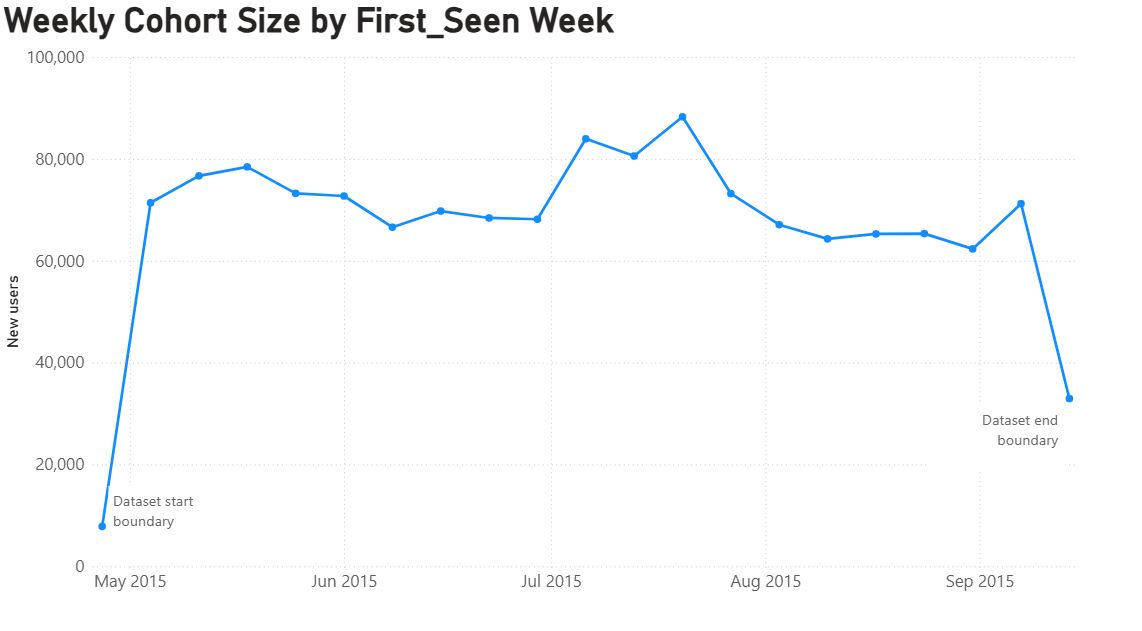
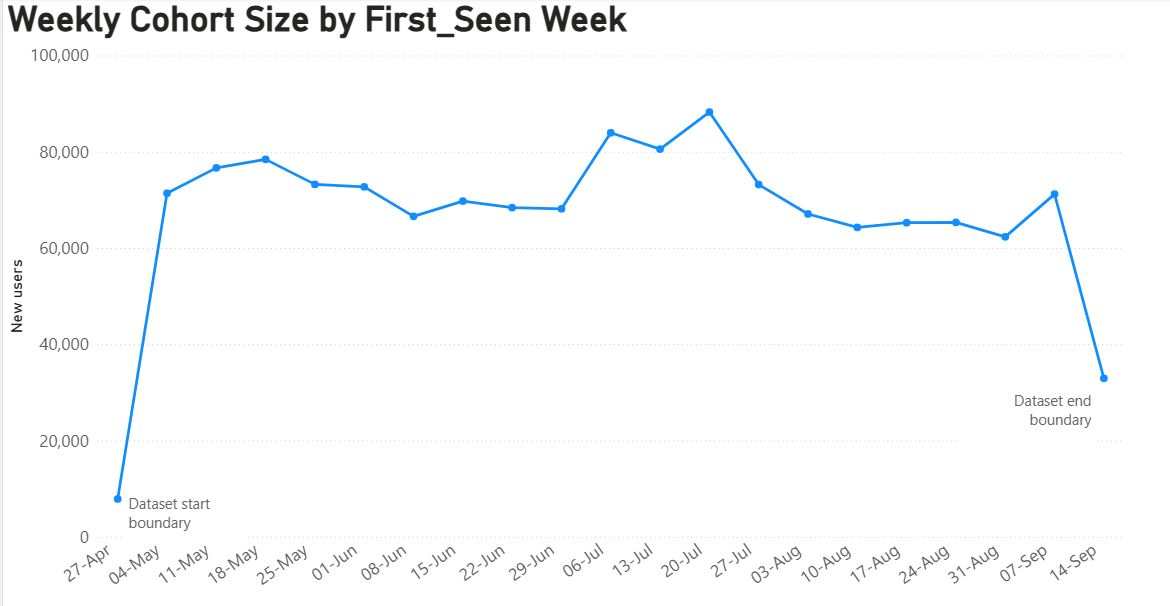
Update README and visuals

diff --git a/README.md b/README.md
@@ -1,3 +1,26 @@
+## Table of Contents
+- [PROJECT OVERVIEW](#project-overview)
+- [DATASET AND APPROACH](#dataset-and-approach)
+  - [Dataset](#dataset)
+  - [Data Preparation And Cleaning](#data-preparation-and-cleaning)
+  - [Analytical Approach](#analytical-approach)
+- [DATA VALIDATION](#data-validation)
+  - [1/ Event timeline and volume stability](#1-event-timeline-and-volume-stability)
+  - [2/ Cohort anchor viability check](#2-cohort-anchor-viability-check)
+  - [3/ Retention window sufficiency](#3-retention-window-sufficiency)
+  - [4/ Weekly cohort stability and boundary effects](#4-weekly-cohort-stability-and-boundary-effects)
+  - [5/ Post-anchor return signal](#5-post-anchor-return-signal)
+  - [Overall Assessment](#overall-assessment)
+- [ANALYSIS](#analysis)
+  - [1/ Overall exact-day retention baseline](#1-overall-exact-day-retention-baseline)
+  - [2/ Weekly cohort retention pattern consistency](#2-weekly-cohort-retention-pattern-consistency)
+  - [3/ Retention differences by early browsing breadth](#3-retention-differences-by-early-browsing-breadth)
+- [KEY FINDINGS](#key-findings)
+- [RECOMMENDED ACTIONS](#recommended-actions)
+- [LIMITATION](#limitation)
+- [FUTURE WORK](#future-work)
+- [APPENDIX: SUPPORTING DATASET EXPLORATION](#appendix-supporting-dataset-exploration)
+
 # PROJECT OVERVIEW
 This project analyzes early user retention in an e-commerce event dataset. The business question is:
 
@@ -51,7 +74,7 @@ This approach links the business question to both:
 # DATA VALIDATION
 Before building the final retention tables, I checked whether the dataset was suitable for cohort-based retention analysis. The validation focused on retention-critical risks: event continuity, anchor usability, observation-window sufficiency, cohort stability, and whether meaningful post-anchor return behavior exists.
 
-## 1. Event timeline and volume stability
+## 1/ Event timeline and volume stability
 I first checked whether the event timeline showed signs of logging gaps or abnormal collapse in activity.
 
 - No missing calendar days were found between the earliest and latest event dates.
@@ -59,7 +82,7 @@ I first checked whether the event timeline showed signs of logging gaps or abnor
 
 These checks suggest that the event stream is continuous enough for retention analysis.
 
-## 2. Cohort anchor viability check
+## 2/ Cohort anchor viability check
 Because the dataset does not include a true registration timestamp or a true lifetime first-seen date, I defined anchor event as:
 
 >first_seen = user’s first observed event date
@@ -75,7 +98,7 @@ To check whether this proxy anchor was usable, I inspected the distribution of f
 
 Therefore, there is no obvious evidence of severe truncation or logging gaps, and first_seen is usable as a cohort anchor under the project assumptions.
 
-## 3. Retention window sufficiency
+## 3/ Retention window sufficiency
 This step verify that the dataset timeline is long enough to compute common retention windows.
 
 Using the maximum event date (2015-09-18), the latest eligible cohort dates (retention cutoffs) were computed:
@@ -85,7 +108,7 @@ Using the maximum event date (2015-09-18), the latest eligible cohort dates (ret
 
 The results confirm that nearly all users are observable for D7 and D14, and most users are observable for D30. Therefore, the dataset provides sufficient time coverage for the selected retention windows.
 
-## 4. Weekly cohort stability and boundary effects
+## 4/ Weekly cohort stability and boundary effects
 I checked weekly cohort sizes because retention rates can become unstable when cohorts are too small.
 
 Cohorts are defined using first_seen (anchor event) then count new users per ISO week
@@ -95,7 +118,7 @@ Cohorts are defined using first_seen (anchor event) then count new users per ISO
 - Weekly cohorts are consistently large across the dataset (roughly ~60k–90k new users/week), indicating that retention estimates are based on sufficient sample sizes and are likely to be stable.
 - The first and last cohort weeks show visible difference in size compared to the rest, suggesting potential boundary effects caused by incomplete data coverage at the start and end of the dataset. Therefore, the first and last cohort weeks are treated as boundary cohorts and excluded from reported retention metrics and interpretation.
 
-## 5. Post-anchor return signal
+## 5/ Post-anchor return signal
 Before building the final cohort retention tables, I checked whether the dataset contains meaningful post-anchor return behavior. This is a diagnostic check only; it is used to confirm that retention analysis will not collapse into all-zero outcomes.
 
 In this diagnostic step, “returning/active” is defined broadly as having at least one post-anchor event of any type (`view`, `addtocart`, or `transaction`). Using cumulative return windows after Day 0, I checked whether they had at least one event within the following windows after first_seen
@@ -130,7 +153,7 @@ The final analysis uses **exact-day any-event retention**. A user is counted as 
 
 Following the boundary cohort check in Section 4.4, the first and last cohort weeks are excluded from all reported retention metrics to avoid bias from incomplete data coverage.
 
-## 1. Overall exact-day retention baseline
+## 1/ Overall exact-day retention baseline
 | checkpoint | mature users | retained users | exact-day retention_rate |
 |------------|--------------|----------------|----------------|
 | D1         | 1,366,774    | 21,813         | 1.596%         |
@@ -142,23 +165,26 @@ Following the boundary cohort check in Section 4.4, the first and last cohort we
 
 The output shows that exact-day retention remains under 2% at all reported checkpoints. This means that only a small share of mature users were active on those exact checkpoint days. Retention also declines at later checkpoints, which is consistent with the stricter exact-day definition.
 
-## 2. Weekly cohort retention pattern consistency
+## 2/ Weekly cohort retention pattern consistency
 To check whether the overall retention pattern was consistent across cohort weeks, I created a weekly cohort heatmap using exact-day retention at D1, D7, D14, and D30.
 
 ![alt text](visuals/weekly_cohort_retention_heatmap.JPG)
+*Note: The first and last cohort weeks are shown for context, but they are treated as boundary cohorts and excluded from interpretation because of incomplete data coverage at the start and end of the dataset.*
 
 The output shows:
-- Except for the first and last cohort week, the same declining exact-day retention pattern is visible across most weekly cohorts: D1 is the highest checkpoint, followed by a sharp drop by D7 and further declines at D14 and D30. This suggests that the overall retention shape is broadly consistent across cohorts rather than being driven by only a few specific weeks.
+- Reading vertically within the same checkpoint column, retention rates fluctuate across cohort weeks, but there is no clear pattern showing that later cohorts consistently retain worse than earlier cohorts.
+
+- Reading horizontally within each cohort row, exact-day retention generally declines from D1 to D7, then continues declining at D14 and D30. This pattern appears across most mature cohort weeks, suggesting that the overall retention shape is broadly consistent rather than being driven by only a few specific cohorts.
 
 - The largest visible checkpoint-to-checkpoint decline occurs from D1 to D7, suggesting that the steepest loss of returning users happens early in the post-acquisition period.
 
 - Later cohorts are blank at longer 
 checkpoints, which is expected because they are not yet mature enough for those windows.
 
-## 3. Retention differences by early browsing breadth
+## 3/ Retention differences by early browsing breadth
 The primary segmentation is based on **distinct items interacted with in the first 3 days after `first_seen`**. Users are grouped into three buckets: `1_item`, `2_3_items`, and `4plus_items`. 
 
-I selected this segmentation because it provided a clearer user-level behavioral signal and aligned with the business question. Alternative segmentation candidates were screened separately and are documented in the Appendix.
+I selected this segmentation because it provided a clearer user-level behavioral signal and aligned with the business question. Alternative segmentation candidates were screened separately and documented in `docs/segmentation_scope_screening.md`.
 
 | segment       | D1 retention | D7 retention | D14 retention | D30 retention |
 |---------------|--------------|--------------|---------------|---------------|
@@ -179,12 +205,13 @@ The output shows:
 # KEY FINDINGS
 The overall table shows that exact-day retention declines sharply after D1. The weekly cohort heatmap confirms that this pattern is broadly consistent across mature cohort weeks rather than being driven by one unusual cohort. Together, these two views show that early retention drop-off is a recurring pattern in the dataset, not an isolated fluctuation.
 
-Within that recurring pattern, the largest visible checkpoint-to-checkpoint decline occurs from D1 to D7, making D1–D7 the most obvious first intervention window. The segmented retention analysis then adds a more actionable layer: early browsing breadth is meaningfully associated with later D7, D14, and D30 return behavior, giving a clearer signal for which early users may need intervention.
+Within that recurring pattern, the largest visible checkpoint-to-checkpoint decline occurs from D1 to D7, making D1–D7 the most obvious first intervention window. The segmented retention analysis then adds a more actionable layer: early browsing breadth is meaningfully associated with later D7, D14, and D30 return behavior. This does not prove that browsing more items causes retention to improve, but it provides a useful early signal for identifying lower-engagement users who may benefit from retention interventions.
 
 # RECOMMENDED ACTIONS
-- **Improving early item exploration:** during the first 3 days, showing related items, recently viewed recommendations or homepage recommendations to encourage newly observed users to explore more than one item
+These recommendations are hypotheses to test, not proven causal effects:
+- **Test whether encouraging early item exploration improves retention:** during the first 3 days, showing related items, recently viewed recommendations or homepage recommendations to encourage newly observed users to explore more than one item
 
-- **Encouraging low-breadth users to return soon after their first observed activity:** shortly after the first 3 days, targeting on users who interact with only 1 item during their first 3 days, sending reminders such as email, push notification showing similar items to bring customers back before D7.
+- **Target low‑breadth users with a re‑engagement trigger:** shortly after the first 3 days, users who interact with only 1 item can be targeted with reminders or similar-item recommendations. This should be tested as an intervention, because the current analysis shows association rather than causation.
 
 - **D14 and D30 should remain follow-up checkpoints** to confirm whether these early improvements last, not just short-term return behavior.
 
@@ -204,15 +231,31 @@ Retention windows are defined using rolling 24-hour interval from `first_seen` b
 - **The browsing-breadth segmentation rule is project-specific**  
 The selected early browsing breadth segmentation is useful for this project, but the bucket design is a custom analytical choice rather than a universal business rule.
 
+- **The segmentation result is associative, not causal**  
+Users with higher early browsing breadth show stronger later retention, but this analysis does not prove that increasing browsing breadth directly causes retention to improve. The recommended actions should therefore be treated as product hypotheses to test through experiments or causal analysis.
+
 # FUTURE WORK
 - **Improve the cohort anchor:** In future work, I would apply a washout period before anchoring retention or use a true acquisition timestamp if available.
 
-- **Add buyer-focused retention analysis:** Buyer segmentation retention is saved for future work, which would answer a narrower follow-up question: whether purchasing users retain differently from non-purchasing users.
+- **Add buyer-focused retention analysis:** 
+Buyer-focused segmentation can still be business-important even if buyers are a small group. Therefore, it is saved for future work, which would answer a narrower follow-up question: whether purchasing users retain differently from non-purchasing users.
 
-# APPENDIX
-- During initial project scoping, I also reviewed `item_properties` and `category_tree` tables as possible inputs for item-context or category-based retention segmentation. They were cleaned and validated during exploration, but they were not carried into the final reporting views because the selected retention analysis and segmentation could be fully supported by event-level behavior from the events table alone.
-### Item_properties table
-The item_properties table is an entity–attribute–value change log. Because `timestamp` was stored as epoch milliseconds, I converted it into UTC TIMESTAMP format. I then selected the interpretable properties categoryid and available, together with one exploratory numeric property, 790, which was parsed into p1_numeric.
+- **Test causal impact through experimentation:** Future work could test whether product interventions that encourage early item exploration, such as related-item recommendations or re-engagement triggers for low-breadth users, improve D7, D14, and D30 retention compared with a control group.
+
+# APPENDIX: SUPPORTING DATASET EXPLORATION
+During initial project scoping, I also reviewed `item_properties` and `category_tree` tables as possible inputs for item-context or category-based retention segmentation. 
+
+These tables were not carried into the final reporting views because the selected retention analysis and segmentation could be fully supported by event-level behavior from the events table alone.
+
+The purpose of this appendix is to document the non-core table exploration completed during scoping.
+
+## 1/ Item_properties table
+The item_properties table is an entity–attribute–value change log. Because `timestamp` was stored as epoch milliseconds, I converted it into UTC TIMESTAMP format.
+
+For potential item-context analysis, I focused on the more interpretable fields:
+- `categoryid`
+- `available`
+- one exploratory numeric property, `790`, parsed as `p1_numeric`
 
 I then checked for:
 - missing or NULL or blank values
@@ -222,12 +265,14 @@ I then checked for:
 - unusual values in categoryid, available, and p1_numeric.
 - timestamp ranges that might indicate invalid or future-dated records.
 
-The selected item properties were successfully parsed and retained in `item_properties_cleaned`. Extreme values in p1_numeric were flagged for caution rather than removed, because the business meaning of that anonymized property is unknown.
+The selected fields were usable for exploratory item-context work. Extreme values in p1_numeric were flagged for caution rather than removed because the business meaning of that anonymized property is unknown.
 
-### Category_tree table
-I validated the category_tree table to ensure the category hierarchy was structurally usable. The checks covered:
+## 2/ Category_tree table
+The category_tree table represents the category hierarchy for items. I validated it to understand whether category-based segmentation might be possible.
+
+The checks covered:
 - expected NULL parentid values for root categories
 - duplicate or conflicting category assignments
 - orphan category nodes.
 
-No structural issues were found, so the original category tree table was kept as-is.
+No major structural issues were found, so the category hierarchy was usable for exploratory category-based analysis. Category-based segmentation was not selected for the final analysis because item category information is less directly interpretable for a portfolio reader than event-level browsing behavior.
